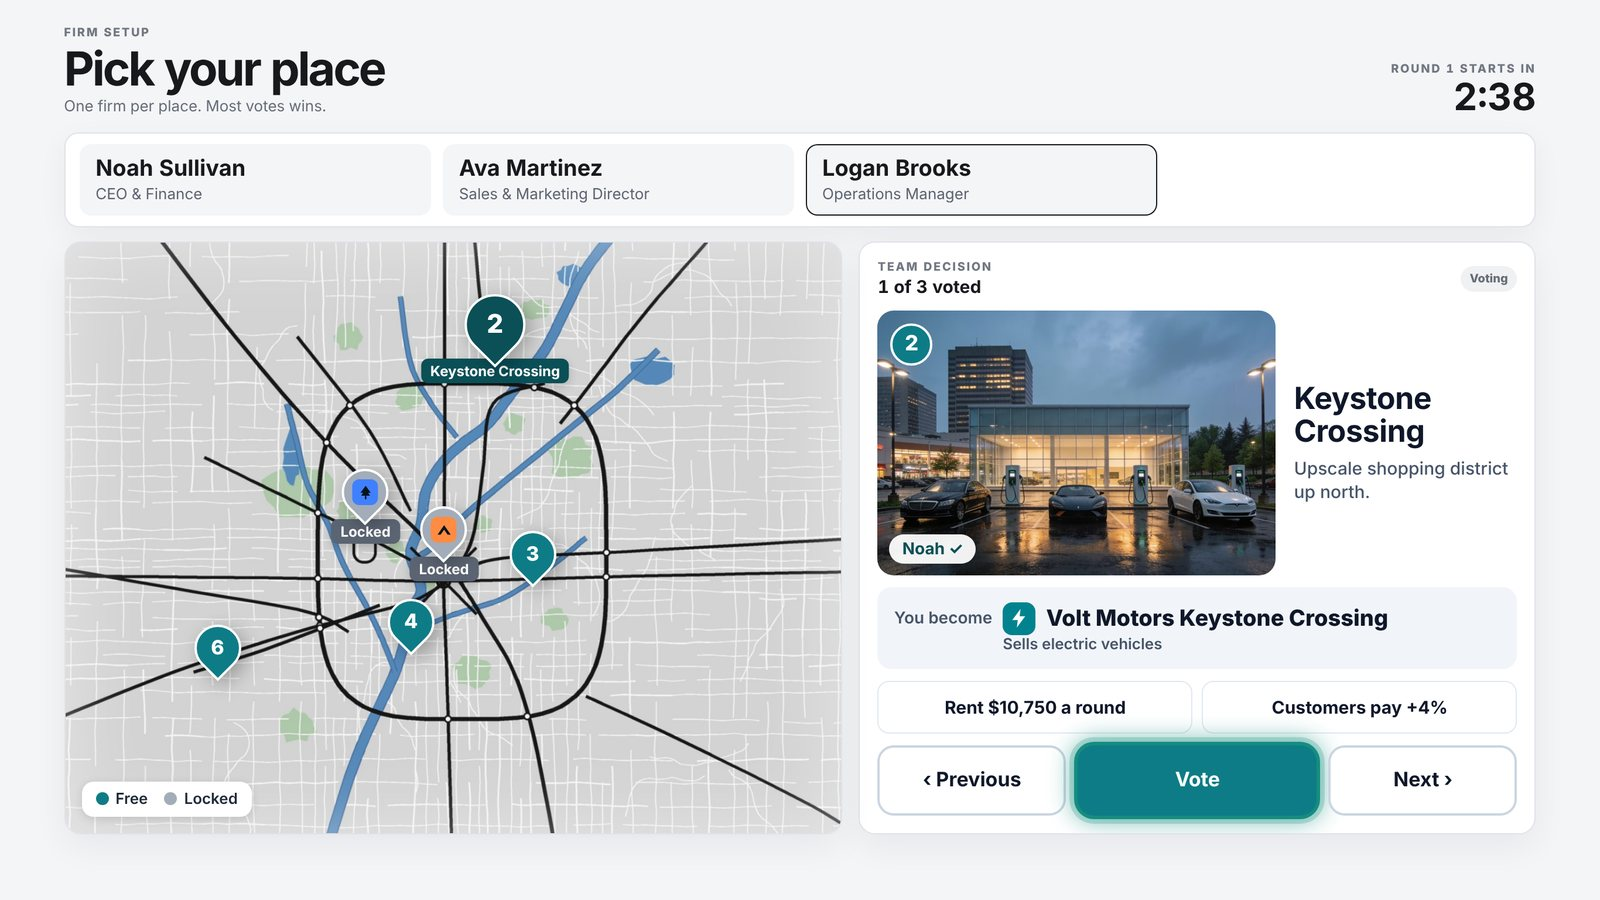
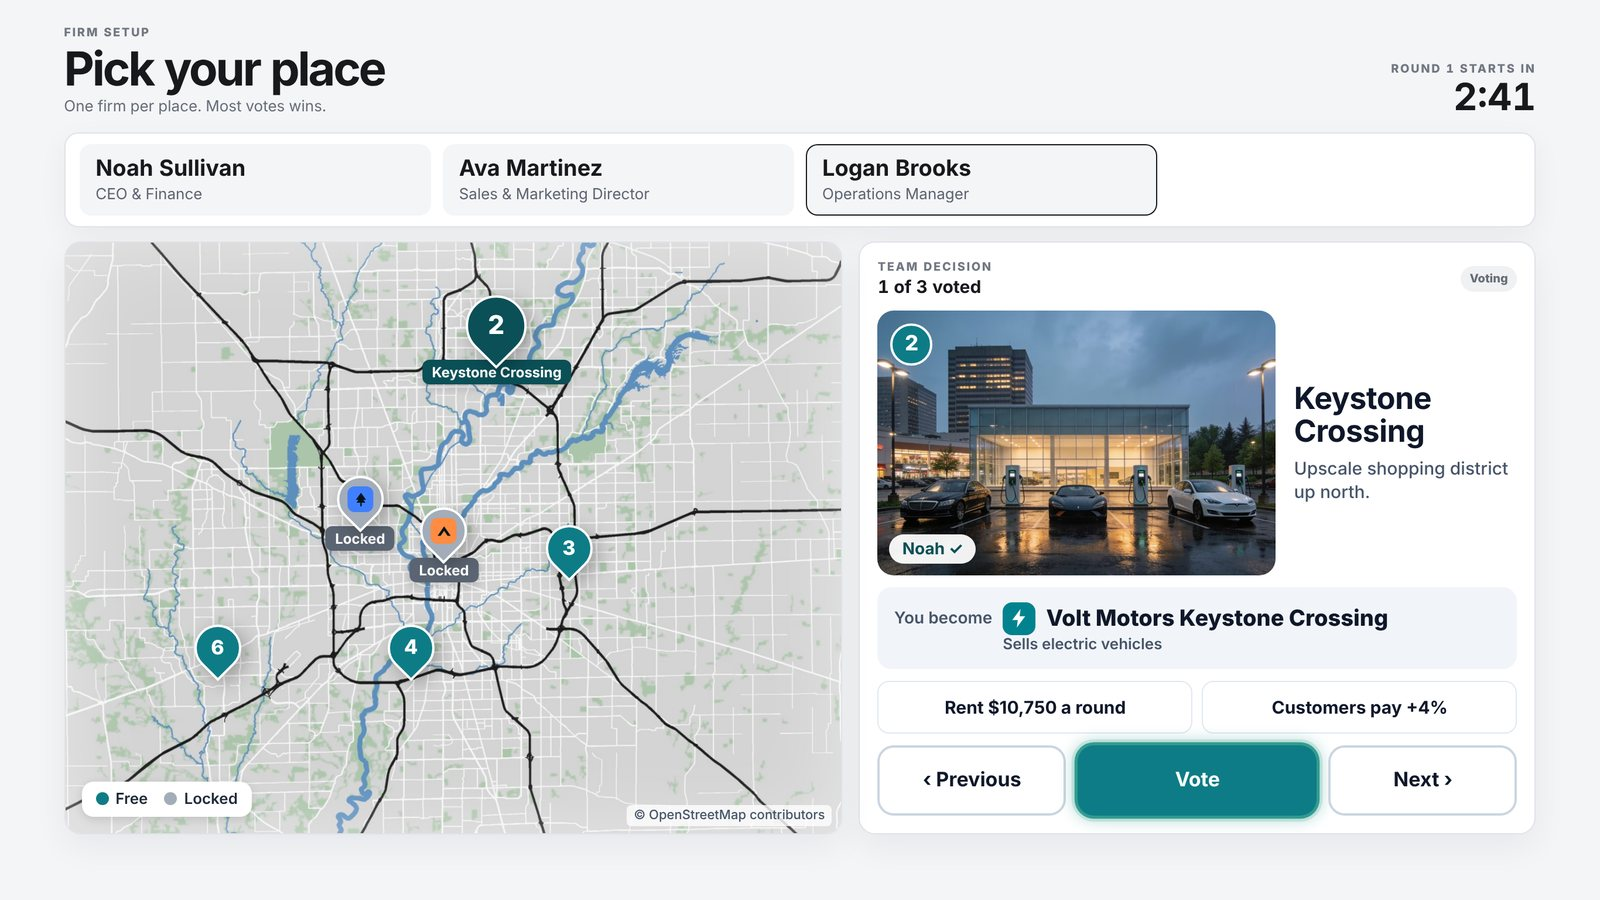
US page: the place pick picture from the game's OpenStreetMap Indianapolis map (game claude/us-map d7d949f9); fresh ?v=20261102o
Claude-Session: https://claude.ai/code/session_01Np2n7mwxyzcaQWByNZ1ReD

diff --git a/us/index.html b/us/index.html
@@ -535,7 +535,7 @@
         <figcaption>Each student starts with a short tutorial for their own role.</figcaption>
       </figure>
       <figure class="motor-gal-item">
-        <img src="/assets/tbs-web/us/us-g-place.jpg?v=20261102m" width="1600" height="900" loading="lazy" decoding="async" alt="A firm picks its place on a map of Indianapolis with numbered places; the team votes" />
+        <img src="/assets/tbs-web/us/us-g-place.jpg?v=20261102o" width="1600" height="900" loading="lazy" decoding="async" alt="A firm picks its place on a map of Indianapolis with numbered places; the team votes" />
         <figcaption>Each firm picks its place on the Indianapolis map.</figcaption>
       </figure>
       <figure class="motor-gal-item">
